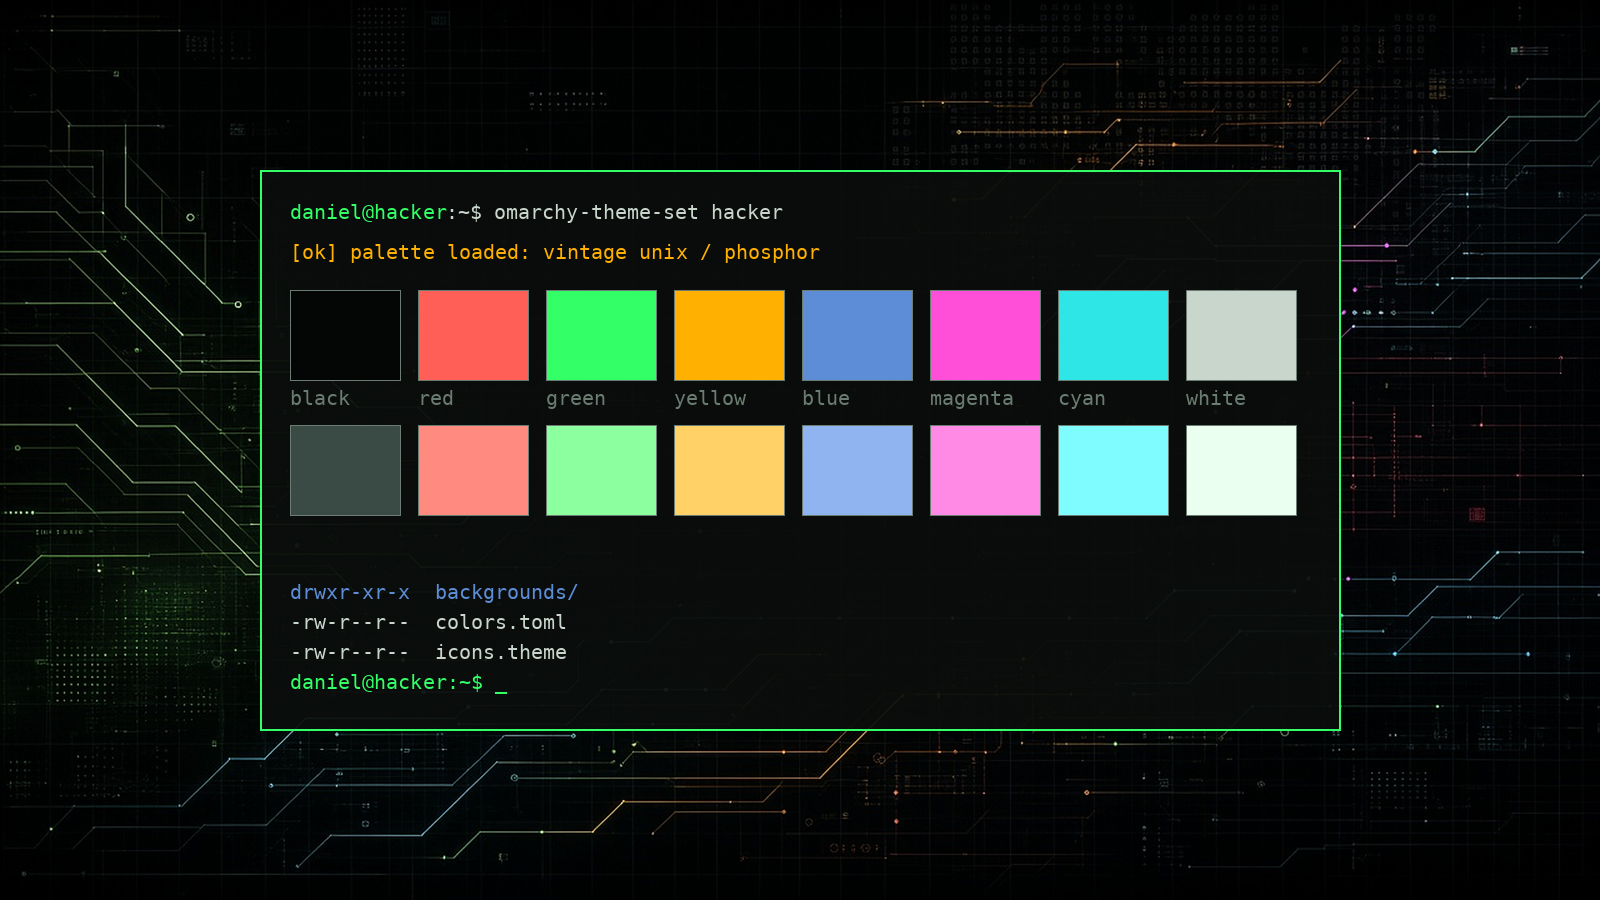
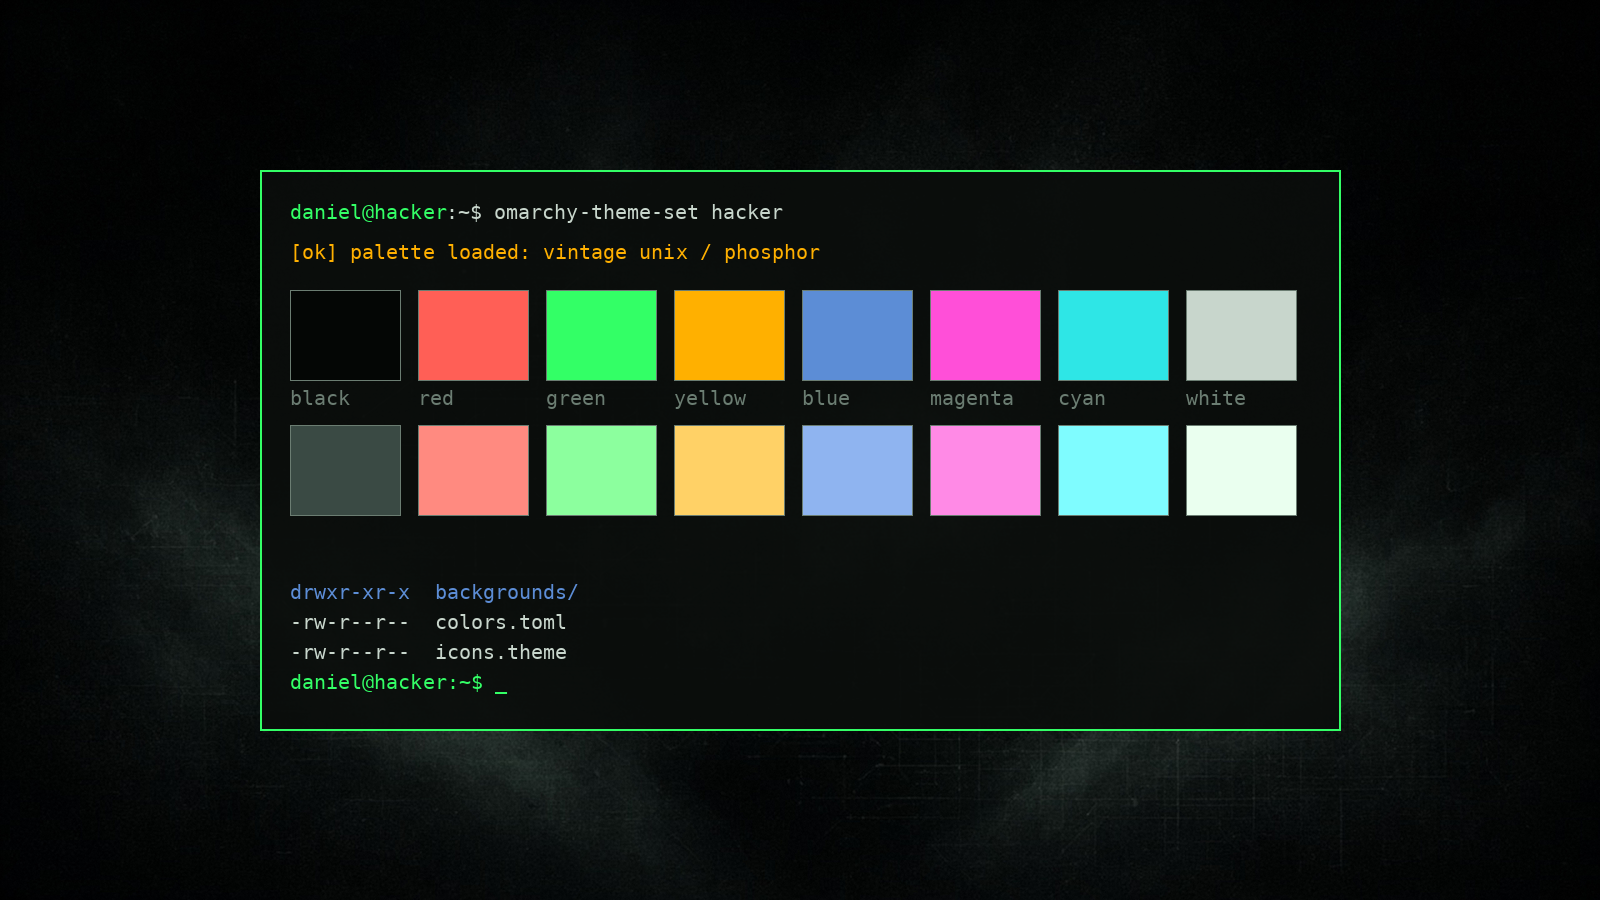
Add ethereal mist background and refresh preview

diff --git a/README.md b/README.md
@@ -1,6 +1,6 @@
 # Hacker
 
-Near-black with abstract circuit and oscilloscope wallpapers and a vintage Unix workstation palette: phosphor green, amber, cyan, magenta and warm red.
+Ethereal near-black monochrome wallpaper (drifting mist over ghosted grid and circuit lines) with a vintage Unix workstation palette: phosphor green, amber, cyan, magenta and warm red.
 
 ![Hacker preview](preview.png)
 
@@ -28,8 +28,7 @@ Switch to another theme first if this one is active.
 
 - `colors.toml`: the palette. Omarchy generates the Hyprland, Waybar, Walker, Mako, SwayOSD, Hyprlock, terminal (Alacritty, Kitty, Ghostty), btop, Neovim (aether.nvim) and other app configs from it when you switch themes
 - `icons.theme`: GTK icon set (`Yaru-sage`)
-- `backgrounds/1-circuit-traces.png`: circuit traces and grid, 3840×2160
-- `backgrounds/2-oscilloscope.png`: wireframe grid and oscilloscope waves, 3840×2160
+- `backgrounds/1-ethereal-mist.jpg`: dark monochrome mist with faint grid and circuit lines, 3840×2160
 - `preview.png`: theme preview
 
 ### Palette
